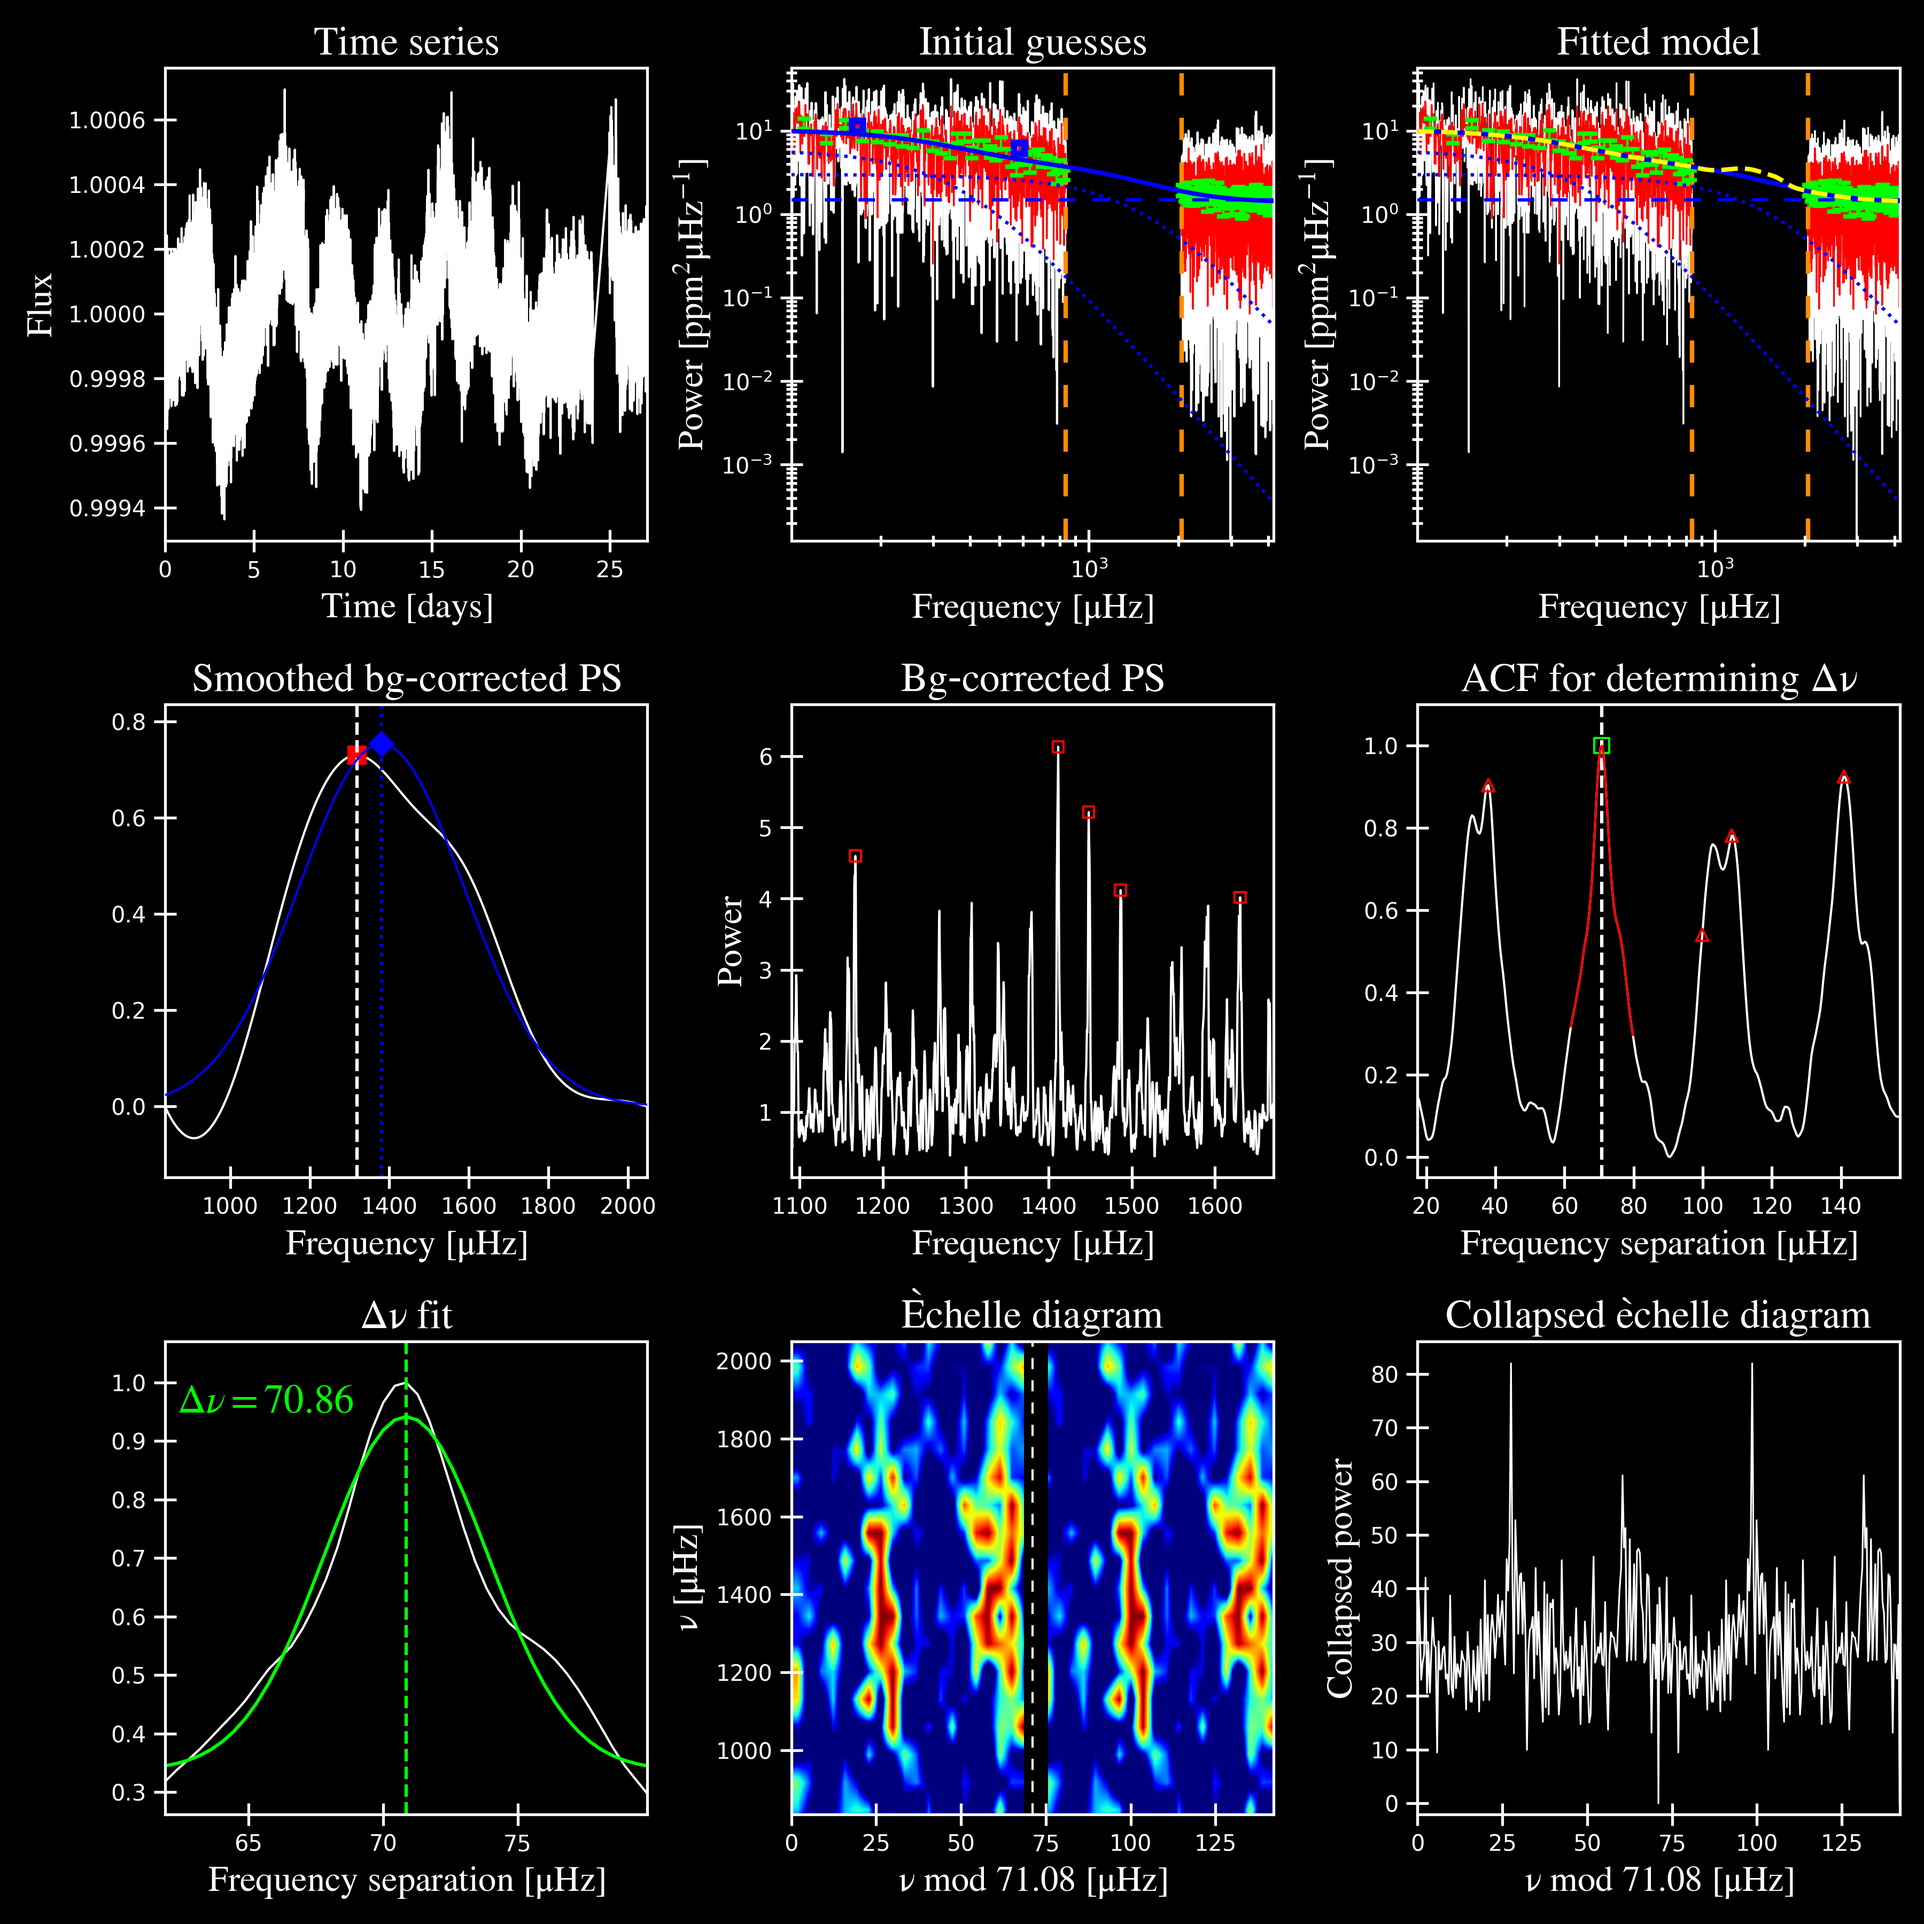
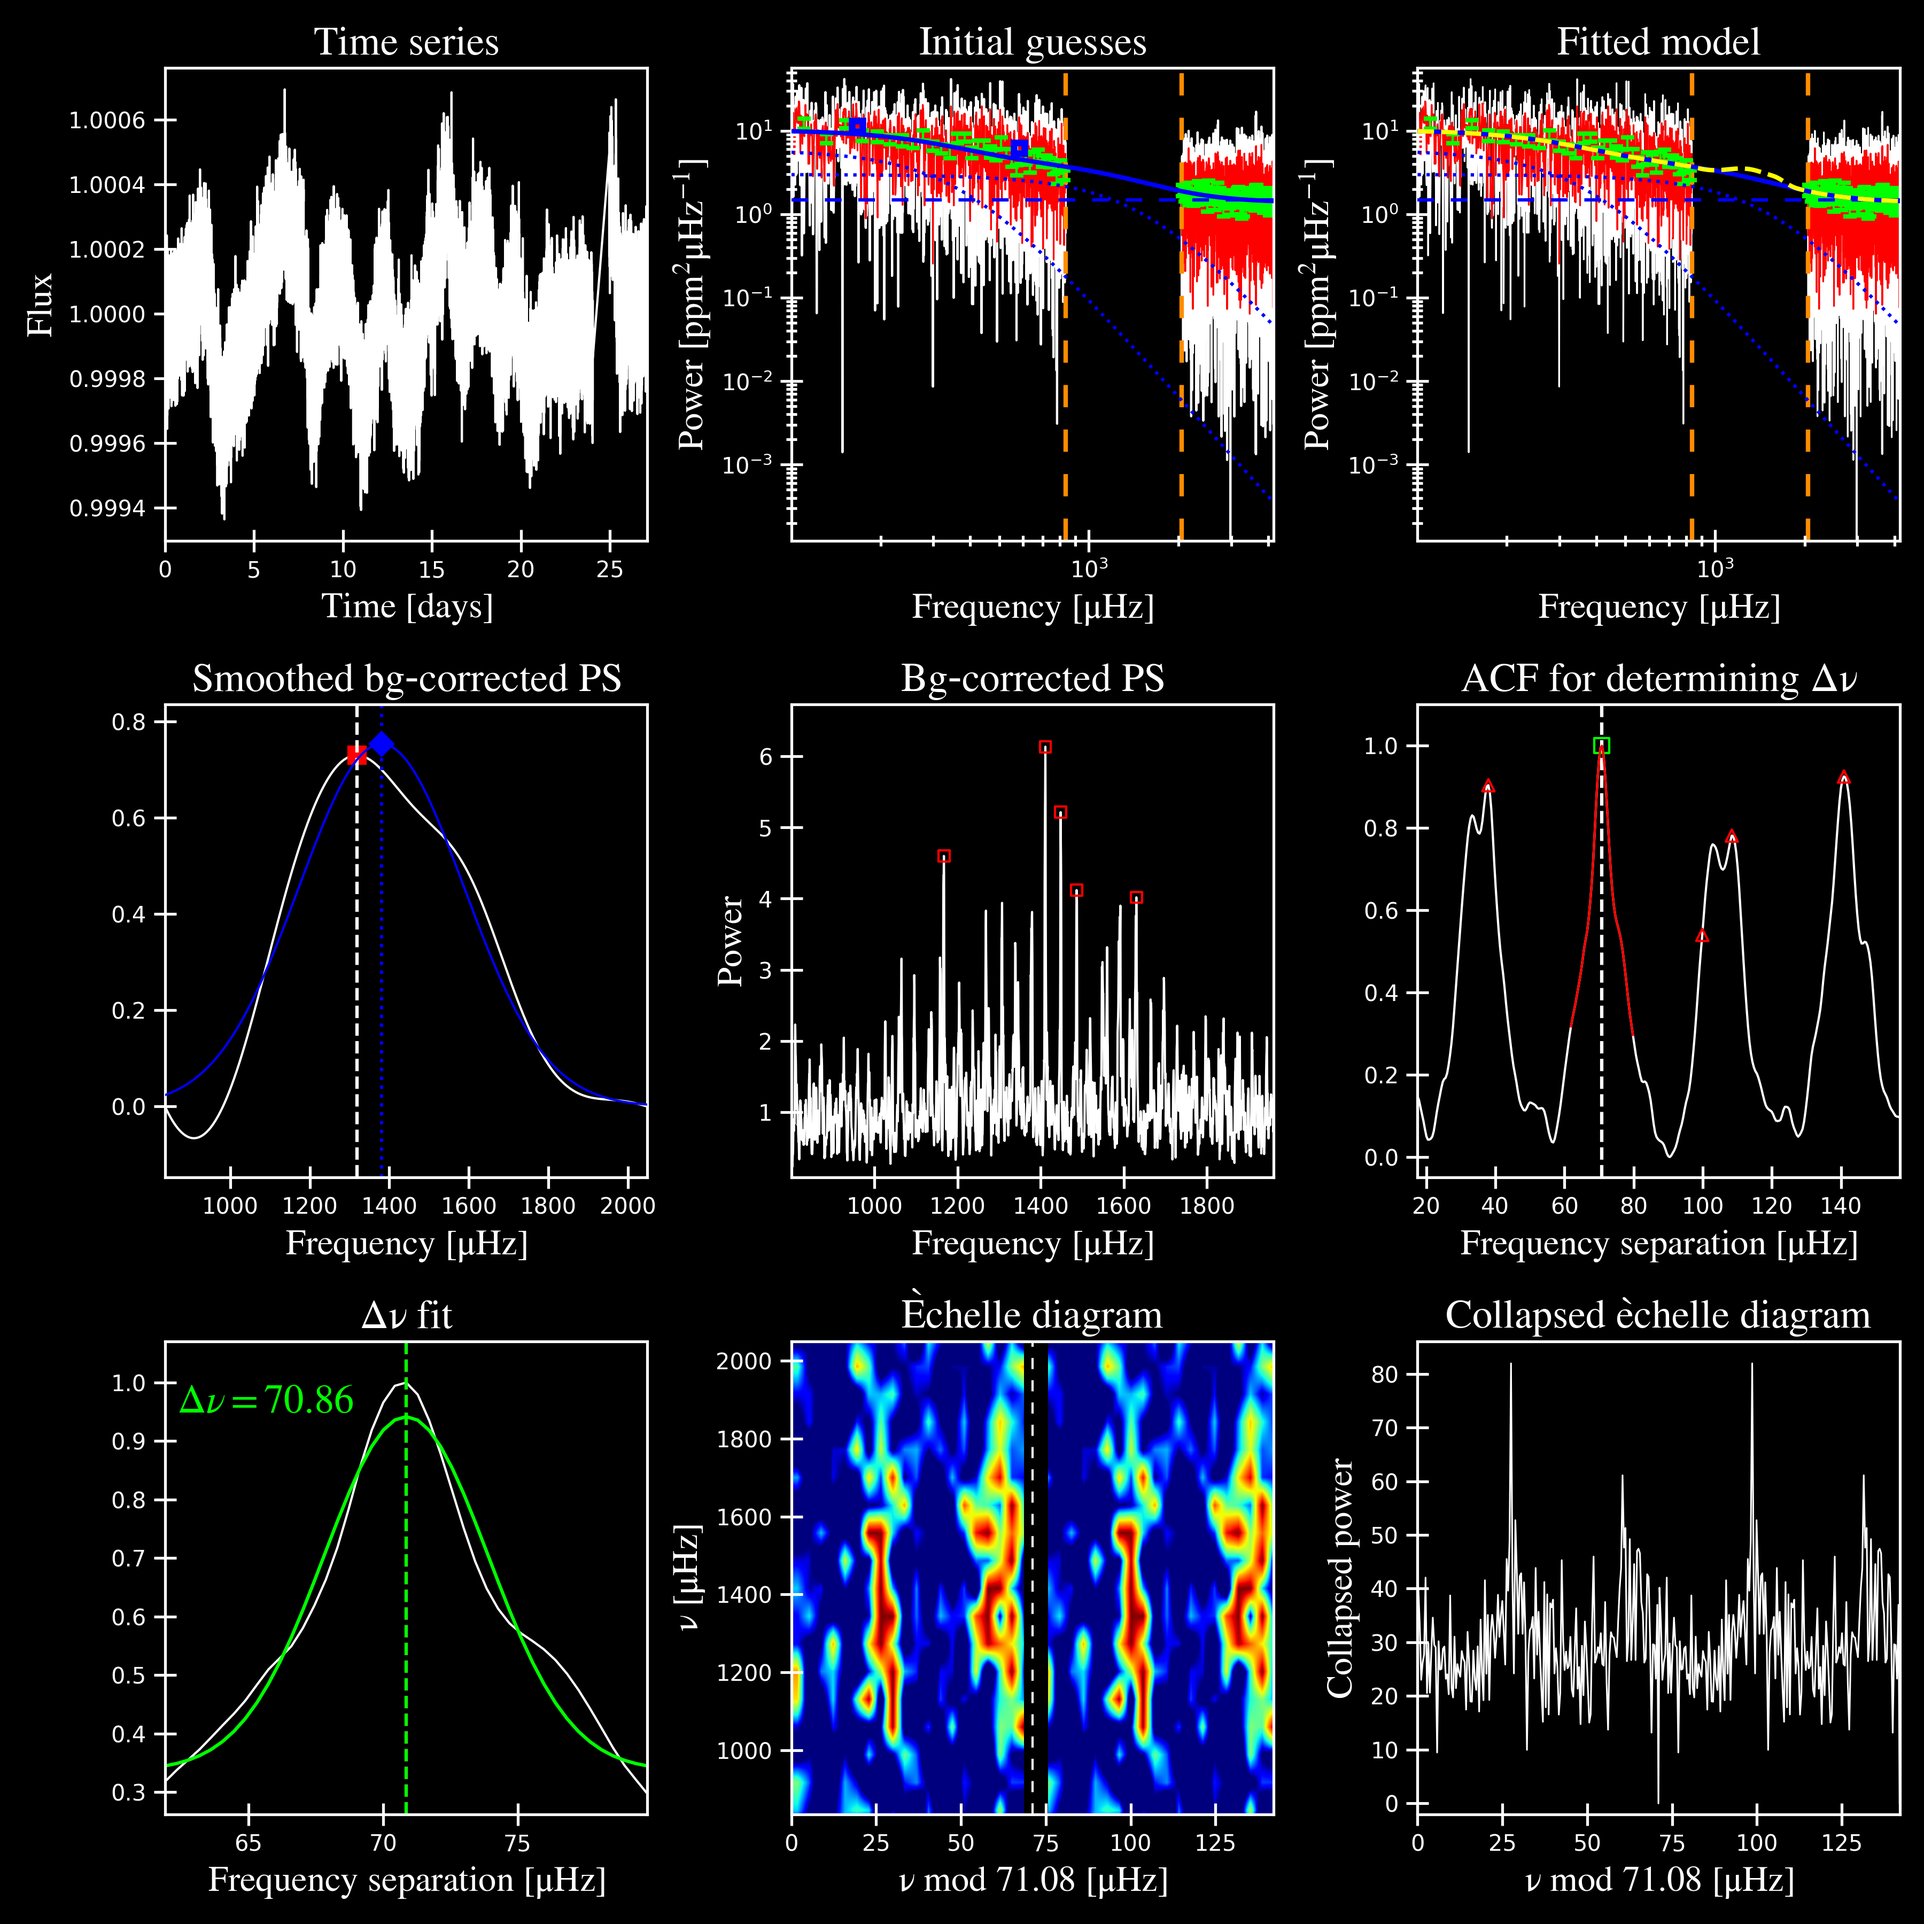
Minor plotting format change.

Changed region(s): [[0.4044, 0.3733, 0.6844, 0.6533]]

diff --git a/SYD.py b/SYD.py
@@ -884,7 +884,7 @@ class PowerSpectrum:
         ax5.set_title(r'$\rm Bg$-$\rm corrected \,\, PS$')
         ax5.set_xlabel(r'$\rm Frequency \,\, [\mu Hz]$')
         ax5.set_ylabel(r'$\rm Power$')
-        ax5.set_xlim([self.numax-self.width/2., self.numax+self.width/2.])
+        ax5.set_xlim([min(self.freq), max(self.freq)])
         ax5.set_ylim([min(self.psd)-0.025*(max(self.psd)-min(self.psd)), max(self.psd)+0.1*(max(self.psd)-min(self.psd))])
 
         # ACF for determining dnu
@@ -892,8 +892,6 @@ class PowerSpectrum:
         ax6.plot(self.lag, self.auto, 'w-', zorder = 0, linewidth = 1.)
         ax6.scatter(self.peaks_l, self.peaks_a, s = 30., edgecolor = 'r', marker = '^', facecolor = 'none', linewidths = 1.)
         ax6.axvline(self.best_lag, color = 'white', linestyle = '--', linewidth = 1.5, zorder = 2)
-#        ax6.scatter()
-#        ax6.axvline(peaks_l[idx0], color = 'red', linestyle = '--', linewidth = 1.5, zorder = 2)
         ax6.scatter(self.best_lag, self.best_auto, s = 45., edgecolor = 'lime', marker = 's', facecolor = 'none', linewidths = 1.)
         ax6.plot(self.zoom_lag, self.zoom_auto, 'r-', zorder = 5, linewidth = 1.)
         ax6.set_title(r'$\rm ACF \,\, for \,\, determining \,\, \Delta\nu$')
@@ -924,7 +922,6 @@ class PowerSpectrum:
         # echelle diagram
         ax8 = fig.add_subplot(3,3,8)
         ax8.imshow(self.ech, extent=self.extent, interpolation = 'bilinear', aspect = 'auto', origin = 'lower', cmap = 'jet', norm = LogNorm(vmin = np.nanmedian(self.ech_copy), vmax = np.nanmax(self.ech_copy)))
-#        ax8.imshow(self.ech, extent = self.extent, interpolation = 'kaiser', aspect = 'auto', origin = 'lower', cmap = 'jet')
         ax8.axvline([self.dnu], color = 'white', linestyle = '--', linewidth = 1., dashes=(5,5))
         ax8.set_title(r'$\rm \grave{E}chelle \,\, diagram$')
         ax8.set_xlabel(r'$\rm \nu \,\, mod \,\, %.2f \,\, [\mu Hz]$'%self.dnu)
